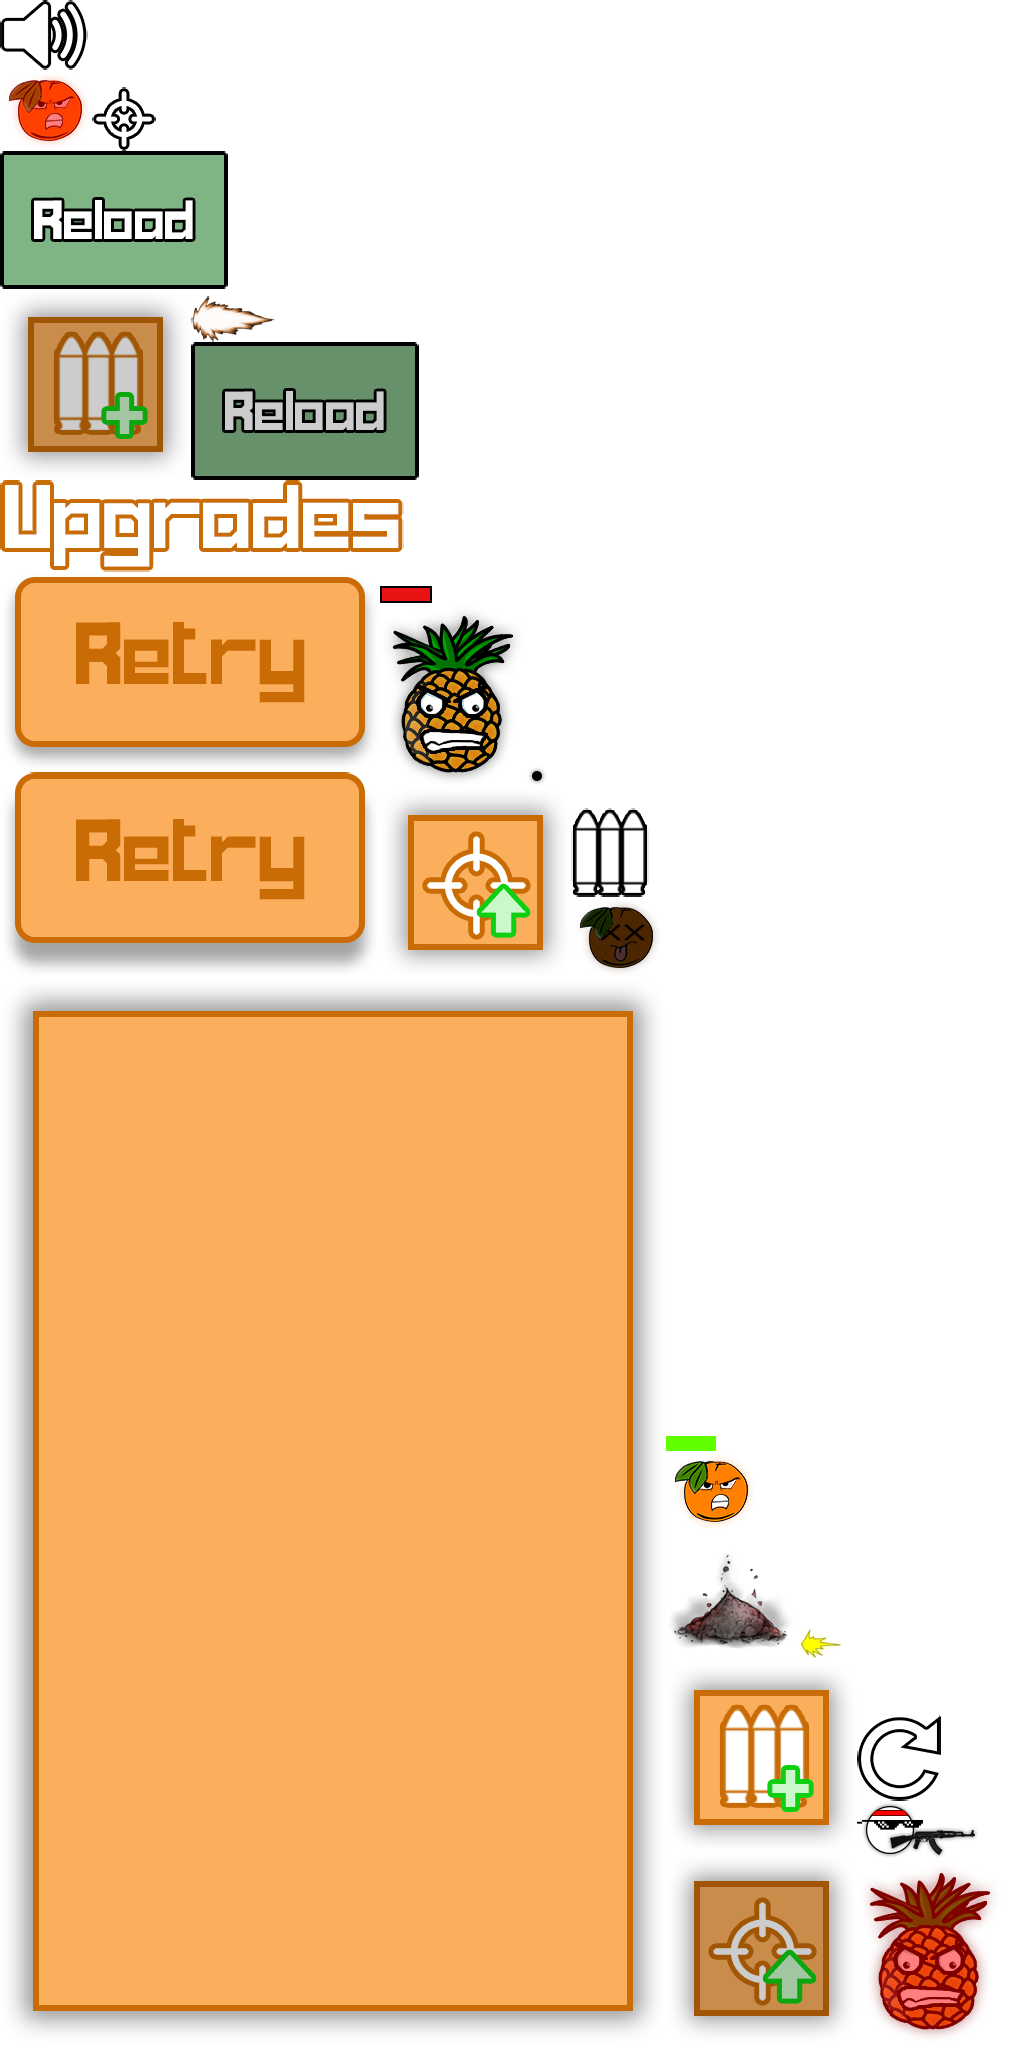
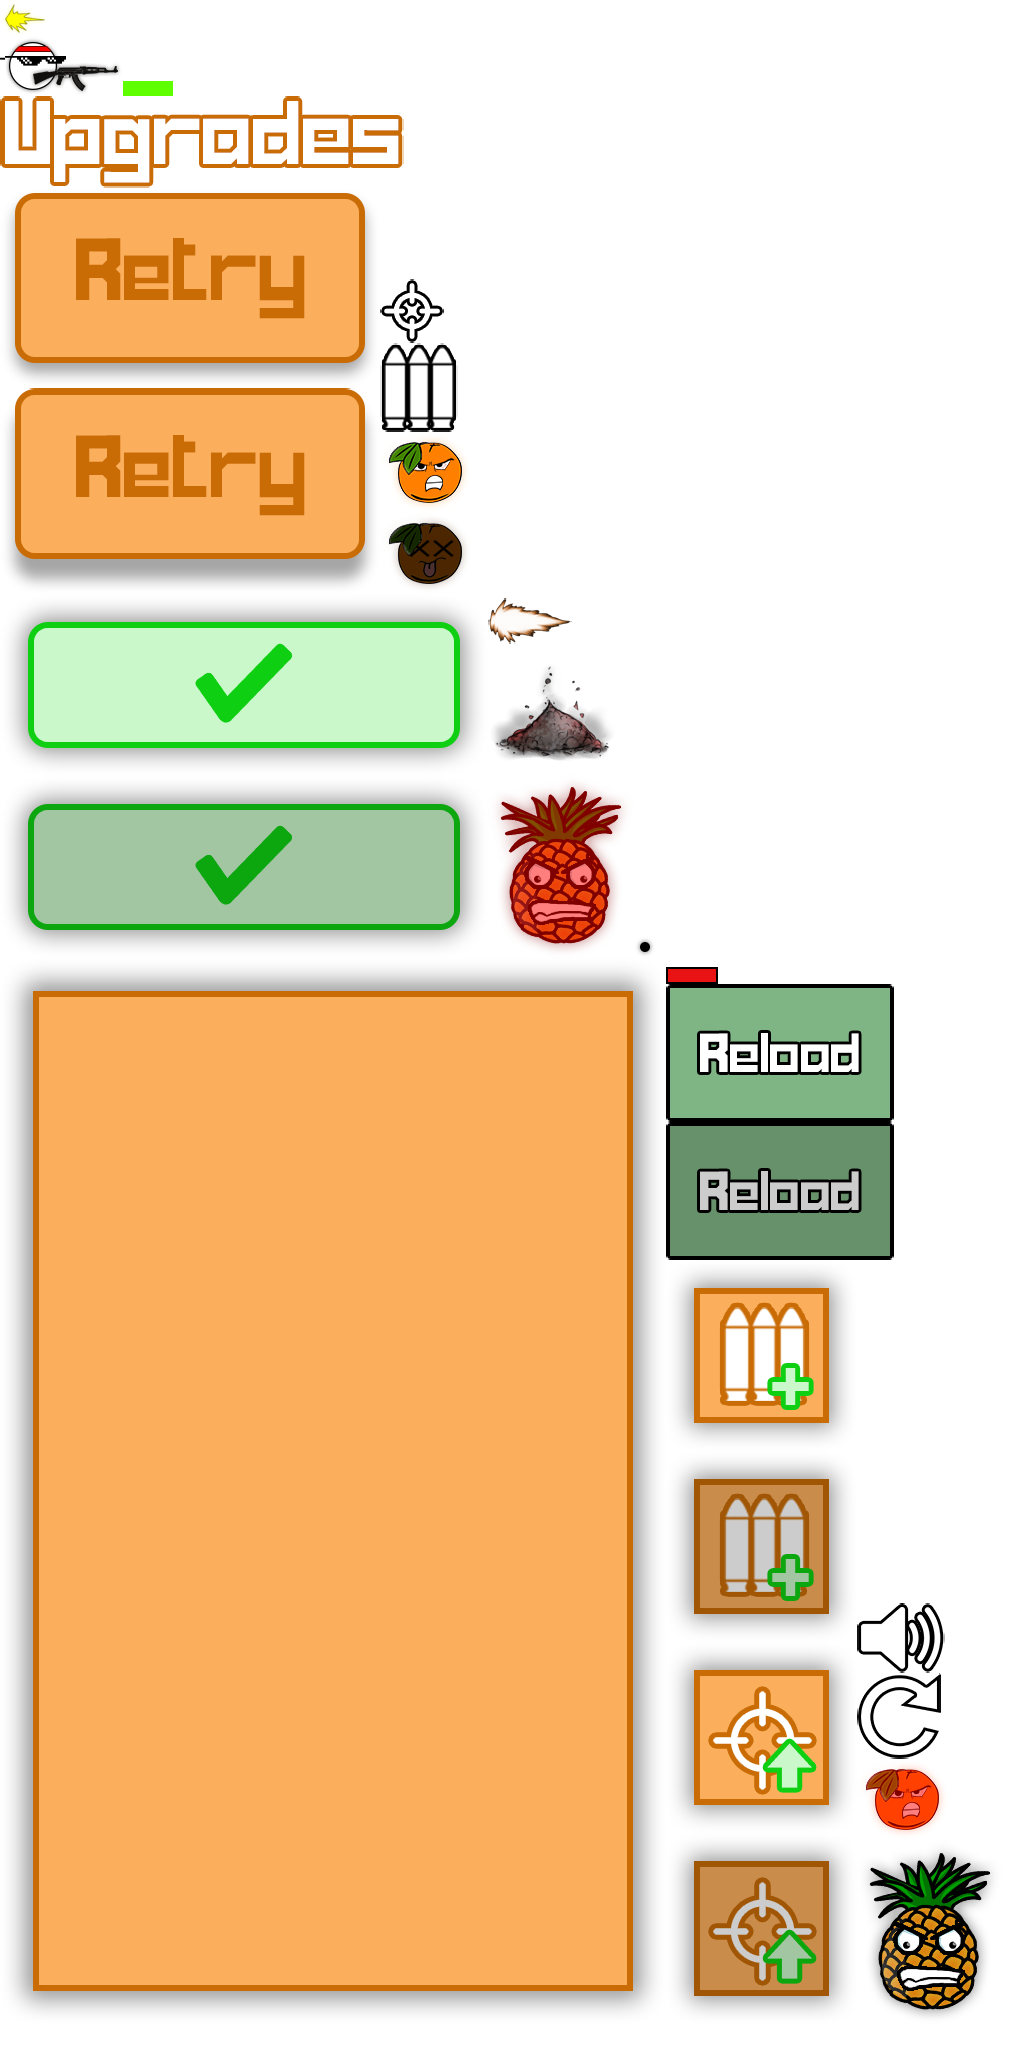
no message

Changed region(s): [[0.0, 0.0, 0.9688, 1.0], [0.0, 0.9688, 0.625, 1.0]]

diff --git a/core/src/com/nahroto/fruitdestroyer/huds/BuyHud.java b/core/src/com/nahroto/fruitdestroyer/huds/BuyHud.java
@@ -2,16 +2,20 @@ package com.nahroto.fruitdestroyer.huds;
 
 import com.badlogic.gdx.Gdx;
 import com.badlogic.gdx.InputMultiplexer;
+import com.badlogic.gdx.audio.Sound;
 import com.badlogic.gdx.graphics.Texture;
 import com.badlogic.gdx.graphics.g2d.SpriteBatch;
 import com.badlogic.gdx.graphics.g2d.TextureAtlas;
 import com.badlogic.gdx.math.Interpolation;
+import com.badlogic.gdx.scenes.scene2d.InputEvent;
 import com.badlogic.gdx.scenes.scene2d.ui.Image;
 import com.badlogic.gdx.scenes.scene2d.ui.ImageButton;
+import com.badlogic.gdx.scenes.scene2d.utils.ClickListener;
 import com.badlogic.gdx.scenes.scene2d.utils.TextureRegionDrawable;
 import com.badlogic.gdx.utils.Align;
 import com.badlogic.gdx.utils.viewport.Viewport;
 import com.nahroto.fruitdestroyer.Constants;
+import com.nahroto.fruitdestroyer.WaveGenerator;
 import com.nahroto.fruitdestroyer.screens.GameScreen;
 
 import static com.badlogic.gdx.scenes.scene2d.actions.Actions.*;
@@ -30,17 +34,20 @@ public class BuyHud extends Hud
 
     private ImageButton extraAmmoButton;
     private ImageButton accuracyButton;
+    private ImageButton doneButton;
 
     private Runnable toggleBuying;
     private Runnable toggleEasing;
     private Runnable resetPosition;
     private Runnable hideBlackShader;
+    private Runnable startNewWave;
 
     private InputMultiplexer inputMultiplexer;
 
-    public BuyHud(Viewport viewport, SpriteBatch batch, TextureAtlas gameScreenAtlas, Texture blackShaderTexture)
+    public BuyHud(Viewport viewport, SpriteBatch batch, TextureAtlas gameScreenAtlas, Texture blackShaderTexture, final Sound waveSFX, final WaveGenerator waveGenerator)
     {
         super(viewport, batch);
+
 
         inputMultiplexer = new InputMultiplexer();
         inputMultiplexer.addProcessor(stage);
@@ -81,6 +88,17 @@ public class BuyHud extends Hud
             }
         };
 
+        startNewWave = new Runnable()
+        {
+            @Override
+            public void run()
+            {
+                waveSFX.play();
+                WaveGenerator.wave++;
+                waveGenerator.startNewWave();
+            }
+        };
+
         blackShader = new Image(blackShaderTexture);
         blackShader.addAction(alpha(0f));
 
@@ -91,9 +109,20 @@ public class BuyHud extends Hud
 
         extraAmmoButton = new ImageButton(new TextureRegionDrawable(gameScreenAtlas.findRegion("moreAmmoUpgrade")), new TextureRegionDrawable(gameScreenAtlas.findRegion("moreAmmoUpgrade-down")));
         accuracyButton = new ImageButton(new TextureRegionDrawable(gameScreenAtlas.findRegion("accuracyUpgrade")), new TextureRegionDrawable(gameScreenAtlas.findRegion("accuracyUpgrade-down")));
+        doneButton = new ImageButton(new TextureRegionDrawable(gameScreenAtlas.findRegion("upgradeDone")), new TextureRegionDrawable(gameScreenAtlas.findRegion("upgradeDone-down")));
 
         extraAmmoButton.setPosition(overlay.getX() + SPACE_BETWEEN_BUTTONS, upgradesTitle.getY(Align.bottom) - 30, Align.topLeft);
         accuracyButton.setPosition(overlay.getX() + extraAmmoButton.getWidth() + SPACE_BETWEEN_BUTTONS, upgradesTitle.getY(Align.bottom) - 30, Align.topLeft);
+        doneButton.setPosition(overlay.getX(Align.center), overlay.getY(Align.bottom) + SPACE_BETWEEN_BUTTONS, Align.bottom);
+
+        doneButton.addListener(new ClickListener()
+        {
+            @Override
+            public void clicked(InputEvent event, float x, float y)
+            {
+                easeOut();
+            }
+        });
 
         resetPosition();
 
@@ -102,6 +131,7 @@ public class BuyHud extends Hud
         actors.add(upgradesTitle);
         actors.add(extraAmmoButton);
         actors.add(accuracyButton);
+        actors.add(doneButton);
 
         addAllActorsToStage();
     }
@@ -118,6 +148,7 @@ public class BuyHud extends Hud
         upgradesTitle.setPosition(overlay.getX(Align.top), overlay.getY(Align.top) - 70, Align.top);
         extraAmmoButton.setPosition(overlay.getX() + SPACE_BETWEEN_BUTTONS, upgradesTitle.getY(Align.bottom) - 30, Align.topLeft);
         accuracyButton.setPosition(overlay.getX() + extraAmmoButton.getWidth() + SPACE_BETWEEN_BUTTONS, upgradesTitle.getY(Align.bottom) - 30, Align.topLeft);
+        doneButton.setPosition(overlay.getX(Align.center), overlay.getY(Align.bottom) + SPACE_BETWEEN_BUTTONS, Align.bottom);
     }
 
     public void toggle(InputMultiplexer gameScreenInput)
@@ -154,7 +185,8 @@ public class BuyHud extends Hud
                 parallel(moveToAligned(0, Constants.V_HEIGHT / 2, Align.right, EASE_TIME, Interpolation.pow2Out), run(hideBlackShader)),
                 run(toggleEasing),
                 run(toggleBuying),
-                run(resetPosition)));
+                run(resetPosition),
+                run(startNewWave)));
     }
 
     private void resetPosition()

diff --git a/core/src/com/nahroto/fruitdestroyer/screens/GameScreen.java b/core/src/com/nahroto/fruitdestroyer/screens/GameScreen.java
@@ -81,8 +81,6 @@ public class GameScreen implements Screen
 
     private ShapeRenderer shapeRenderer;
 
-    private Texture piksel;
-
     public GameScreen(final Application APP, WaveGenerator waveGenerator, Array<Enemy> totalEnemies, Array<Enemy> currentEnemies, Array<Orange> totalOranges, Array<Ananas> totalAnanases, Array<Corpse> currentCorpses, Array<Corpse> totalOrangeCorpses, Array<Corpse> totalAnanasCorpses, Array<Bullet> totalBullets, Array<Bullet> currentBullets,Array<Explosion> totalExplosions, Array<Explosion> currentExplosions, GameHud gameHud, BuyHud buyHud, Texture bg, Player player, InputMultiplexer inputMultiplexer, Font accuracyStatus, InputHandler inputHandler, Input input, CollisionHandler collisionHandler, Font ammoStatus, Music actionMusic, Sprite reloadIcon, Sound waveSFX, Sprite accuracyIcon)
     {
         this.APP = APP;
@@ -132,8 +130,6 @@ public class GameScreen implements Screen
         APP.camera.setToOrtho(false, Constants.V_WIDTH, Constants.V_HEIGHT);
         APP.camera.update();
 
-        piksel = new Texture("backgrounds/piksel.png");
-
         reloadIcon.setPosition(110, 20);
         accuracyIcon.setPosition(280, 15);
 
@@ -148,15 +144,8 @@ public class GameScreen implements Screen
         waveGenerator.startNewWave();
     }
 
-    @Override
-    public void render(float delta)
+    private void update(float delta)
     {
-        Gdx.gl.glClearColor(0, 0, 0, 1);
-        Gdx.gl.glClear(GL20.GL_COLOR_BUFFER_BIT);
-
-        if (Gdx.input.justTouched() && !buying)
-            buyHud.toggle(inputMultiplexer);
-
         if (!GameScreen.buying)
         {
             // HANDLE INPUT
@@ -254,9 +243,17 @@ public class GameScreen implements Screen
             // WHEN WAVE IS CLEARED, START NEW WAVE
             if (currentEnemies.size == 0 && waveGenerator.getQueue().size == 0)
             {
-                waveSFX.play();
-                waveGenerator.wave++;
-                waveGenerator.startNewWave();
+                if (waveGenerator.wave % WaveGenerator.BUY_WAVE == 0)
+                {
+                    Input.touchDown = false;
+                    buyHud.toggle(inputMultiplexer);
+                }
+                else
+                {
+                    waveSFX.play();
+                    waveGenerator.wave++;
+                    waveGenerator.startNewWave();
+                }
             }
 
             // UPDATE EXPLOSIONS
@@ -315,6 +312,15 @@ public class GameScreen implements Screen
 
         // UPDATE
         APP.batch.setProjectionMatrix(APP.camera.combined);
+    }
+
+    @Override
+    public void render(float delta)
+    {
+        Gdx.gl.glClearColor(0, 0, 0, 1);
+        Gdx.gl.glClear(GL20.GL_COLOR_BUFFER_BIT);
+
+        update(delta);
 
         // --- RENDER ---
 
@@ -359,7 +365,6 @@ public class GameScreen implements Screen
         accuracyStatus.render(APP.batch, MathUtils.round((100 - (100 * Player.spread))) + "%", Constants.V_WIDTH / 2 - accuracyStatus.getWidth(MathUtils.round((100 - (100 * Player.spread))) + "%") / 2 + 30, 60, false);
         accuracyIcon.draw(APP.batch);
 
-        APP.batch.draw(piksel, Constants.V_WIDTH / 2, Constants.V_HEIGHT / 2);
 
         APP.batch.end();
 

diff --git a/core/src/com/nahroto/fruitdestroyer/screens/LoadingScreen2.java b/core/src/com/nahroto/fruitdestroyer/screens/LoadingScreen2.java
@@ -77,6 +77,9 @@ public class LoadingScreen2 implements Screen
 
     private Font font;
 
+    private Sound waveSFX;
+    private WaveGenerator waveGenerator;
+
     public LoadingScreen2(final Application APP, final Font font, Texture bg)
     {
         this.APP = APP;
@@ -162,8 +165,9 @@ public class LoadingScreen2 implements Screen
         deadScreen = new DeadScreen(APP, gameScreenAtlas.findRegion("retry-button-up"), gameScreenAtlas.findRegion("retry-button-down"), gameResetter, bg, inputMultiplexer);
 
         collisionHandler = new CollisionHandler(deadScreen, currentEnemies, currentBullets);
-
-        gameScreen = new GameScreen(APP, new WaveGenerator(totalEnemies, currentEnemies, totalOranges, totalAnanases), totalEnemies, currentEnemies, totalOranges, totalAnanases, currentCorpses, totalOrangeCorpses, totalAnanasCorpses, totalBullets, currentBullets, totalExplosions, currentExplosions, new GameHud(player, APP.viewport, APP.batch, gameScreenAtlas.findRegion("reload-up"), gameScreenAtlas.findRegion("reload-down"), gameScreenAtlas.findRegion("bullet-icon"), gameScreenAtlas.findRegion("volumeButton"), actionMusic), new BuyHud(APP.viewport, APP.batch, gameScreenAtlas, blackShaderTexture), bg, player, inputMultiplexer, new Font("fonts/trompus.otf", 50, Color.WHITE, Color.BLACK, 3, true), inputHandler, new Input(), collisionHandler, ammoStatus, actionMusic, gameScreenAtlas.createSprite("reload-icon"), APP.assets.get("sounds/victory.ogg", Sound.class), gameScreenAtlas.createSprite("accuracy-icon"));
+        waveSFX = APP.assets.get("sounds/victory.ogg", Sound.class);
+        waveGenerator = new WaveGenerator(totalEnemies, currentEnemies, totalOranges, totalAnanases);
+        gameScreen = new GameScreen(APP, waveGenerator, totalEnemies, currentEnemies, totalOranges, totalAnanases, currentCorpses, totalOrangeCorpses, totalAnanasCorpses, totalBullets, currentBullets, totalExplosions, currentExplosions, new GameHud(player, APP.viewport, APP.batch, gameScreenAtlas.findRegion("reload-up"), gameScreenAtlas.findRegion("reload-down"), gameScreenAtlas.findRegion("bullet-icon"), gameScreenAtlas.findRegion("volumeButton"), actionMusic), new BuyHud(APP.viewport, APP.batch, gameScreenAtlas, blackShaderTexture, waveSFX, waveGenerator), bg, player, inputMultiplexer, new Font("fonts/trompus.otf", 50, Color.WHITE, Color.BLACK, 3, true), inputHandler, new Input(), collisionHandler, ammoStatus, actionMusic, gameScreenAtlas.createSprite("reload-icon"), waveSFX, gameScreenAtlas.createSprite("accuracy-icon"));
 
         gameResetter.setGameScreen(gameScreen);
     }

diff --git a/core/src/com/nahroto/fruitdestroyer/WaveGenerator.java b/core/src/com/nahroto/fruitdestroyer/WaveGenerator.java
@@ -9,9 +9,11 @@ import com.nahroto.fruitdestroyer.entities.enemies.Orange;
 
 public class WaveGenerator
 {
-    private final int ANANAS_MINIMUM_WAVE = 1;
-    private final float ORANGE_MULTIPLIER = 1.2f;
-    private final float ANANAS_MULTIPLIER = 0.5f;
+    public static final int BUY_WAVE = 3;
+
+    private static final int ANANAS_MINIMUM_WAVE = 1;
+    private static final float ORANGE_MULTIPLIER = 1.2f;
+    private static final float ANANAS_MULTIPLIER = 0.5f;
 
     private Array<Enemy> totalEnemies;
     private Array<Enemy> currentEnemies;
@@ -22,7 +24,7 @@ public class WaveGenerator
 
     private Array<Enemy> queue;
 
-    private float delay = 0;
+    private float delay;
     private long startTime;
 
     public WaveGenerator(Array<Enemy> totalEnemies, Array<Enemy> currentEnemies, Array<Orange> totalOranges, Array<Ananas> totalAnanases)
